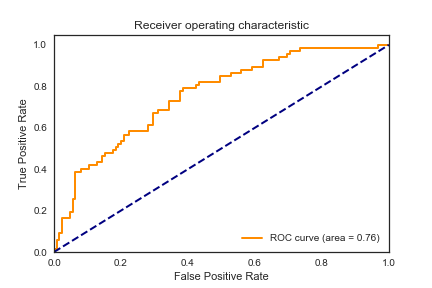
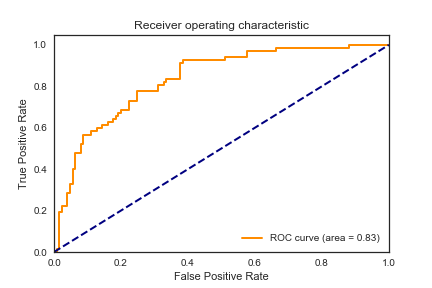
update

diff --git a/README.md b/README.md
@@ -1,2 +1,169 @@
-# Diabetes-Pima
-Regression Model to predict whether females in a Pima Indian population have diabetes.
+## Diabetes Among Pima Indian Women
+
+#### Background
+A dataset provided through the [National Institute of Diabetes and Digestive and Kidney Diseases](https://www.niddk.nih.gov/), this dataset contains records from 768 Pima women, each including diagnostic measures like BMI, insulin, and glucose and whether the woman has diabetes. A competition on [Kaggle](https://www.kaggle.com/uciml/pima-indians-diabetes-databasefrom) challenged data scientists to build a model to accurately predict whether a woman has diabetes based on her diagnostics.
+
+#### Summary -- Approach
+
+My goal is to identify diagnostics that most help to differentiate women with / without diabetes, and interpret the coefficients from the most promising model.
+
+Logistic Regression with/without the lasso will be fit to training data, then evaluated against test data. Because the data set is relatively small, no validation set is withheld.
+
+A bootstrap method is used to identify a distribution for each coefficient.  
+
+#### Summary - Findings
+
+Presently no logistic regression model has the predictive power required for deployment. Other algorithms like Random Forest or Naive Bayes could be applied.
+
+## Table of Contents
+1. [Measures of Success](#measures-of-success)
+2. [Data](#data)
+      * [Feature Engineering](#feature-engineering)
+      * [Training, Validation and Test
+Sets](#training,-validation-and-test-sets)
+3. [Logistic Regression Models](#logistic-regression-models)
+4. [Summary of Results](#summary-of-results)
+5. [Next Steps](#next-steps)
+
+## Measures of Success
+
+1. Area under the receiver operation characteristc curve (AUC-ROC)
+2. Precision at 40% auto approval rate
+
+At present the auto-approval rate for referrals is 30% - a new model would need to approve at least 40% of referrals to be worth the implementation effort. The model also needs to be precise - to have very few false positives.  This is because approving referrals that would normally be denied could be costly - worse, it could be for a treatment that isn't medically necessary for the patient.
+
+<img alt="Prescision vs. Auto Approval Rate" src="imgs/AA_prec_goal.png" width='400'>
+<sub><b>Figure: </b> Success is precision > 98% while auto-approvals are greater than 40%. </sub>
+
+## Data
+
+Over two million referrals placed by physicians for patients during the 2017 calendar year.
+
+
+#### Data Dictionary
+
+Name | Variable Name | Description | Type
+------|----------|--------|----
+**Approve** (target) | is_approve | 1 if referral approved, else 0 | bin
+Date Received | dater | time / date stamp of when referral received | date
+Registration Date | regdate | Date when the member registered with plan | date
+Sex | is_male | 1 if male, else 0 | bin
+Age | age | integer age of patient | int
+Priority | priority_ | Physicians can indicate "Routine", "urgent", "emergency" | cat (4)
+Patient Request | pat_req | 1 if patient requested the referral, else 0 | bin
+Referring Physician | ref_prov | name of physician submitting the referral | cat (4000)
+Refer "To" Physician | ref_to_prov | name of physician received the referral | cat (10000)
+Specialty | ref_to_spec | E.g. "Cardiology", "Dermatology" | cat (50)
+Procedure Code | cpt1, cpt2 ... | What is being requested in the referral | cat (14000)
+
+*HIPAA Note: all personal information was scrubbed from the data prior to use.  Age and sex are available for each referral, but the data contain no keys to tie referrals to patients.*
+
+#### Correlation Coefficients Between Target and Predictors
+<img alt="Correlation Matrix" src="imgs/corrheat.png" width='500'>
+
+<sub><b>Figure: </b> Correlations between approvals and predictors. </sub>
+
+#### Feature Engineering
+
+* Categorical predictors were translated to continuous variables through the following steps:
+  * Using training data, historical averages of the target variable were calculated *for each level*. For example, in the ref_to_spec column, "Cardiology" is one of 50 levels and historically approve at 96%.
+  * In a new column, the historical averages are transcribed for each level.
+
+#### Training, Validation and Test Sets
+
+The purpose of the model is to predict whether future approvals with auto-approval or not.  As such, referrals were divided into training, validation, and test sets per the table below.
+* training data - Jan - Aug, 2017
+* validation data - Sept, 2017
+* test data - Oct - Dec, 2017
+
+## Logistic Regression Models
+
+
+
+#### Model 1 - Refer To Provider Only
+
+The physician to whom the referral is directed may explain whether a referral will approve or deny. Referrals to some specialties approve at lower rates, and there is some variation in the historical approval rates made to providers.
+
+```
+Hypothesis:
+log odds of approval = X1 + refer_to_prov * X2 + e
+```
+
+**Model 1 Performance**
+
+<img alt="Example of tumor segmentation overlay on T2" src="imgs/ROC_ few1.png" width='400'>
+
+<img alt="Example of tumor segmentation overlay on T2" src="imgs/AA_prec_few1.png" width='400'>
+
+**Result** The model fails to meet auto-approval & precision requirements.
+
+
+#### Model 2 - Refer To Provider & CPT code
+
+Adds "cpt code 1" to Model 1. CPT codes indicate what service, procedure, or action the receiving physician should perform. It is well known that some routine services (like an office visit) approve at very high rates. Others approval at lower rates and so we hypothesize it will be predictive.
+
+```
+Hypothesis:
+log odds of approval = X1 + refer_to_prov * X2 + cpt1hist * X3+ e
+```
+
+<img alt="Example of tumor segmentation overlay on T2" src="imgs/ROC_few2.png" width='400'>
+
+<img alt="Example of tumor segmentation overlay on T2" src="imgs/AA_prec_few2.png" width='400'>
+
+**Result** The model fails to meet auto-approval & precision requirements.
+
+
+#### Model 3 - Logistic - L1 Penalty (C = 0.3)
+
+The L1 penalty is means of regularization like the lasso. It helps to avoid overfitting when dimensions increase. In this model all variables are considered.
+
+<img alt="Example of tumor segmentation overlay on T2" src="imgs/AA_prec_loglas3.png" width='400'>
+
+**Result** The model fails to meet auto-approval & precision requirements.
+
+
+#### Model 4 - All variables, y-undersampled
+
+The classes in the target are imbalanced, so models can be prone to simply predict the majority class and be correct, in this case, 92% of the time. To ensure the model considers both classes equally likely, in this model we undersample "approvals" to be 50% of the training set.
+
+<img alt="Example of tumor segmentation overlay on T2" src="imgs/AA_prec_ds.png" width='400'>
+
+**Result** The model fails to meet auto-approval & precision requirements.
+
+___
+
+#### Model 2 applied to Test Data
+
+When tested on our validation (September) data Model 2 performed the best. Applying the model to previously unseen data we see from our performance measures that the model generalizes well.
+
+<img alt="Example of tumor segmentation overlay on T2" src="imgs/ROC_test_few2.png" width='400'>
+
+<img alt="Example of tumor segmentation overlay on T2" src="imgs/AA_prec_test_few2.png" width='400'>
+
+
+```
+log odds of approval = -7.7 + 6.68 * ref_tohist + 4.8 * cpt1hist
+```
+
+## Summary of Results
+
+None of the models met the 98% precision level at the 40% auto approval rate requirements.
+
+Num | Model | ROC-AUC | Precision at 40% AA
+---|----|-----|----
+1 | Logistic - Referring Provider | 0.76 | 97.1%
+2 |Logistic - Refer To Provider, CPT1 | 0.79 | 97.7%
+3 | Logistic w/ penalty (lasso, C=.3), all vars | 0.79 | 97.5%
+4 |Logistic, all vars, y-undersampled | 0.79 | 97.6%
+Test | Logistic - Refer To Provider, CPT1| 0.78 | 97.6%
+
+## Next Steps
+
+* Use the 2nd, 3rd, 4th, etc. CPT codes.  
+* Use number of CPT codes as a feature.
+* Machine learning with Profit Curve to focus on precision - LogisticRegression CV()?
+* Switch approve = 1 to denial = 1
+* SMOTE or other balancing
+* Use models that can work on sparse matricies, and One Hot Encode the categorical variables.
+* Use other models like Random Forest or Naive Bayes.
